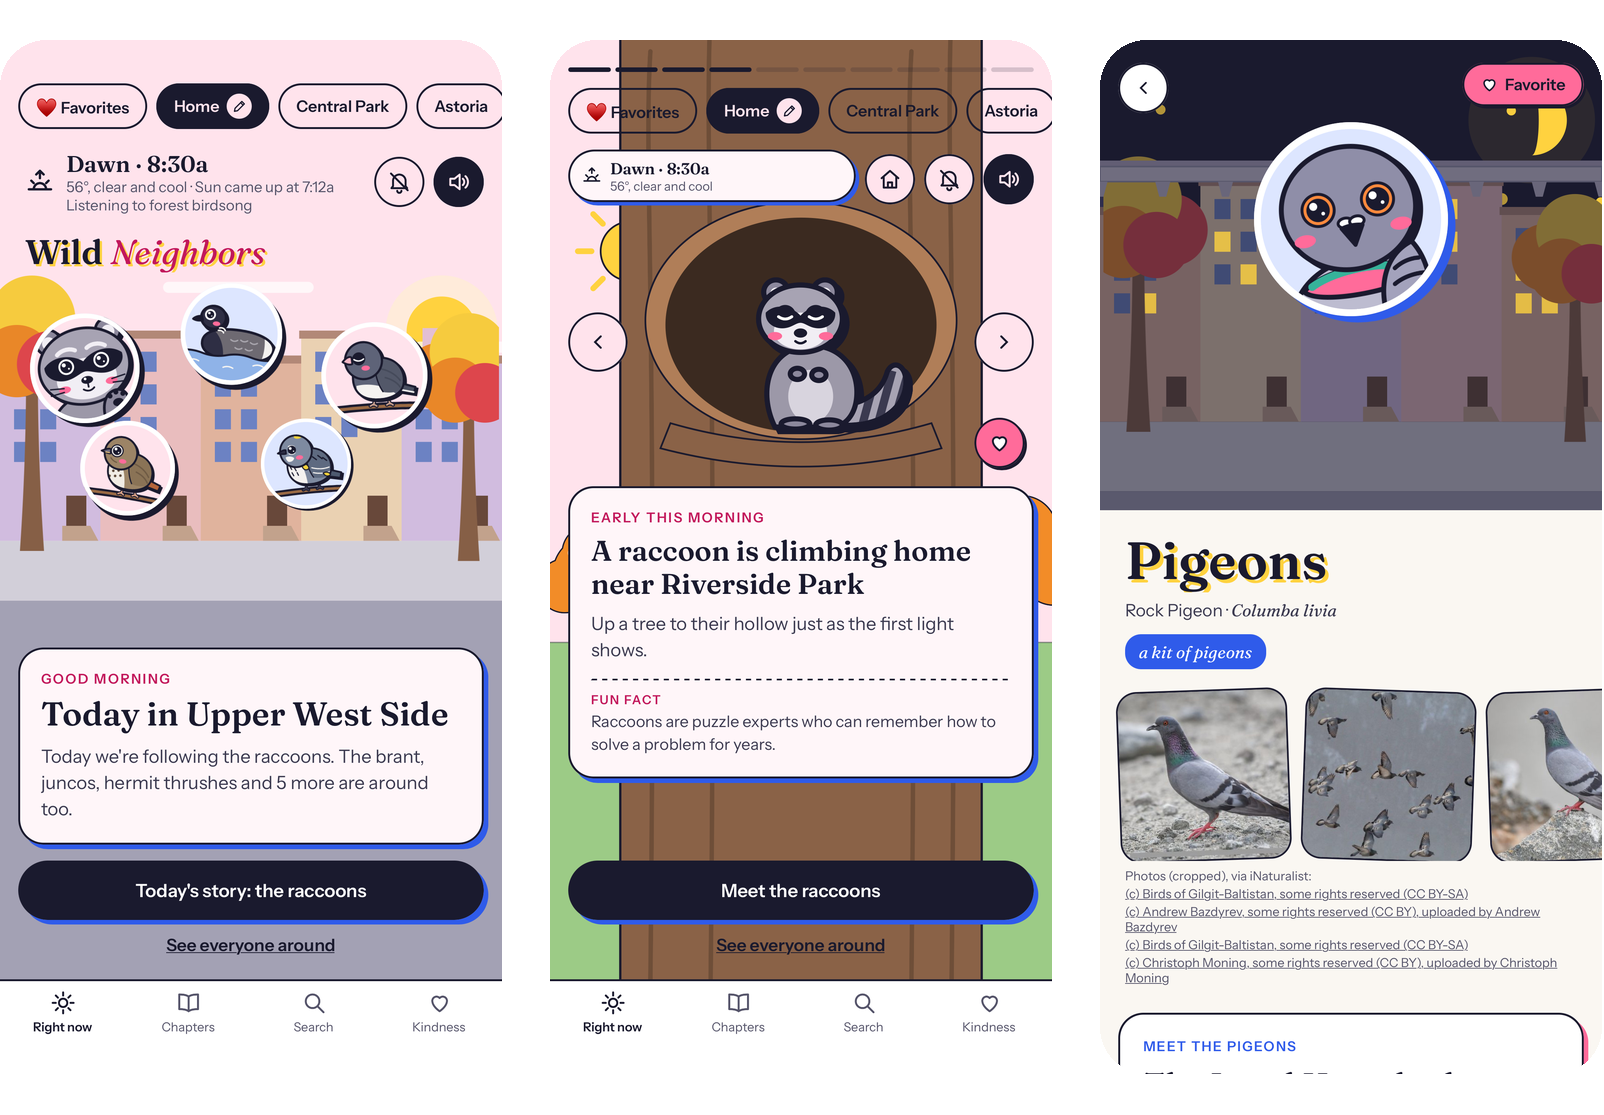
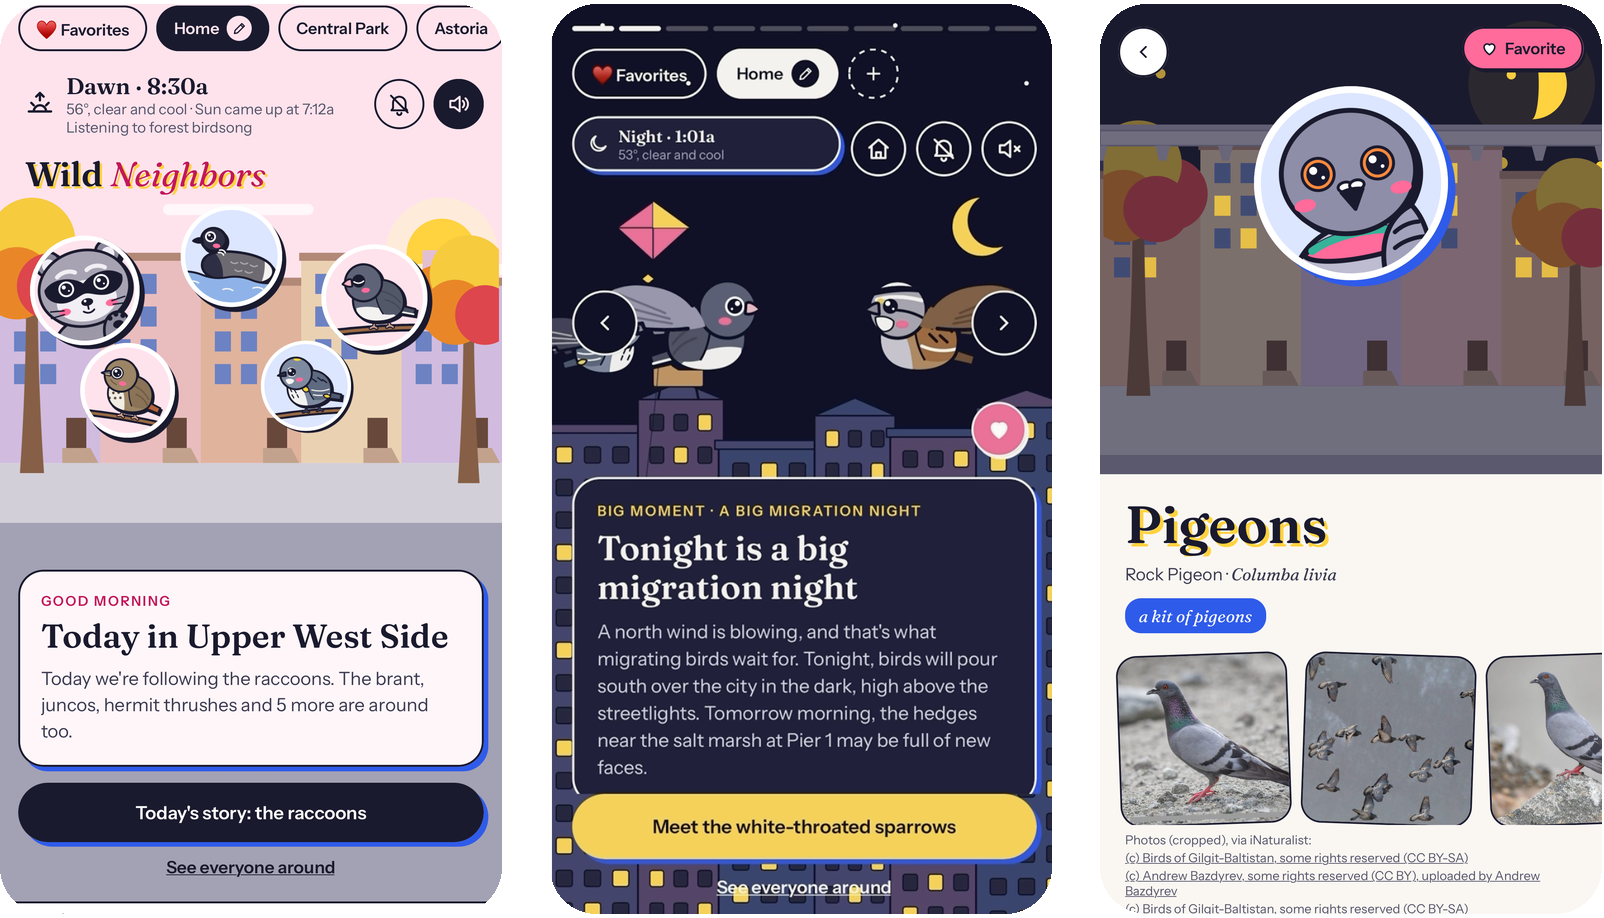
wild nyc img

diff --git a/index.html b/index.html
@@ -71,7 +71,7 @@
     <section class="tab-panel" id="projects-panel" role="tabpanel" aria-labelledby="projects-tab" tabindex="0" hidden>
       <h2>Projects</h2>
       <article class="project">
-        <img class="project-image" src="img/wild-nyc.png" width="802" height="558" loading="lazy" alt="Three screens from Wild Neighbors: the Upper West Side at dawn, with round stickers of a raccoon, a brant, a junco and other birds over a pink city block; a story card about a raccoon climbing home to their tree hollow near Riverside Park; and the pigeons' profile page at night, with a drawn pigeon and photos from iNaturalist">
+        <img class="project-image" src="img/wild-nyc.png" width="802" height="459" loading="lazy" alt="Three screens from Wild Neighbors: the Upper West Side at dawn, with round stickers of a raccoon, a brant, a junco and other birds over a pink city block; a night story card, “Tonight is a big migration night”, with a junco and a white-throated sparrow flying over lit-up city rooftops; and the pigeons' profile page at night, with a drawn pigeon and photos from iNaturalist">
         <div class="project-body">
           <h3 class="project-name">Wild NYC: City Wildlife App</h3>
           <p class="project-caption">A playful iOS app about the everyday animals on your block in NYC and Jersey City.</p>
